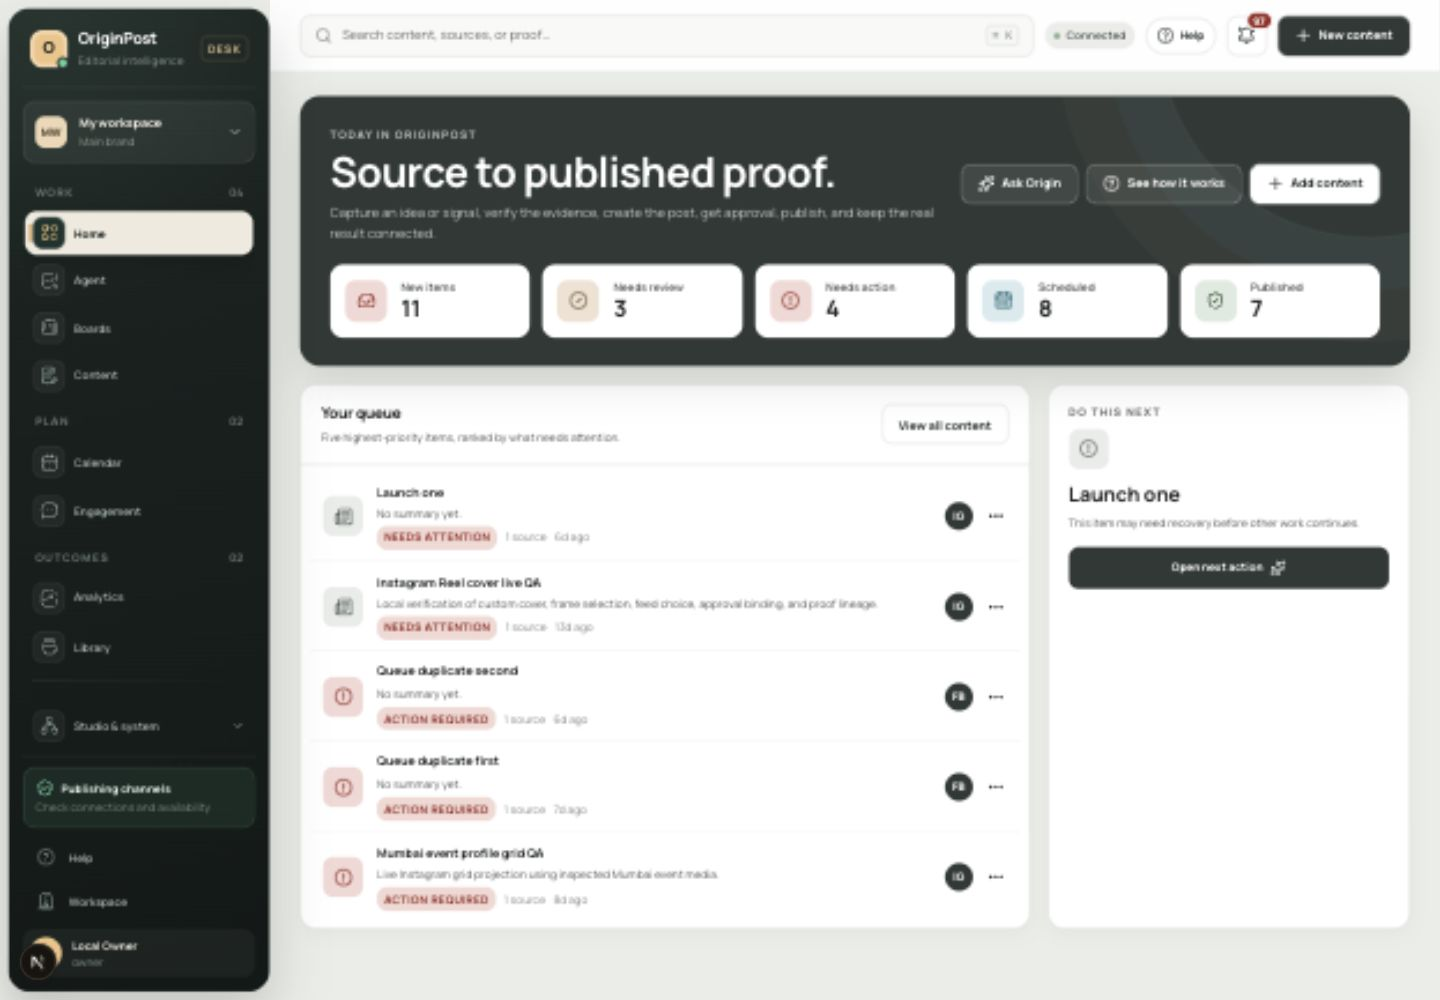
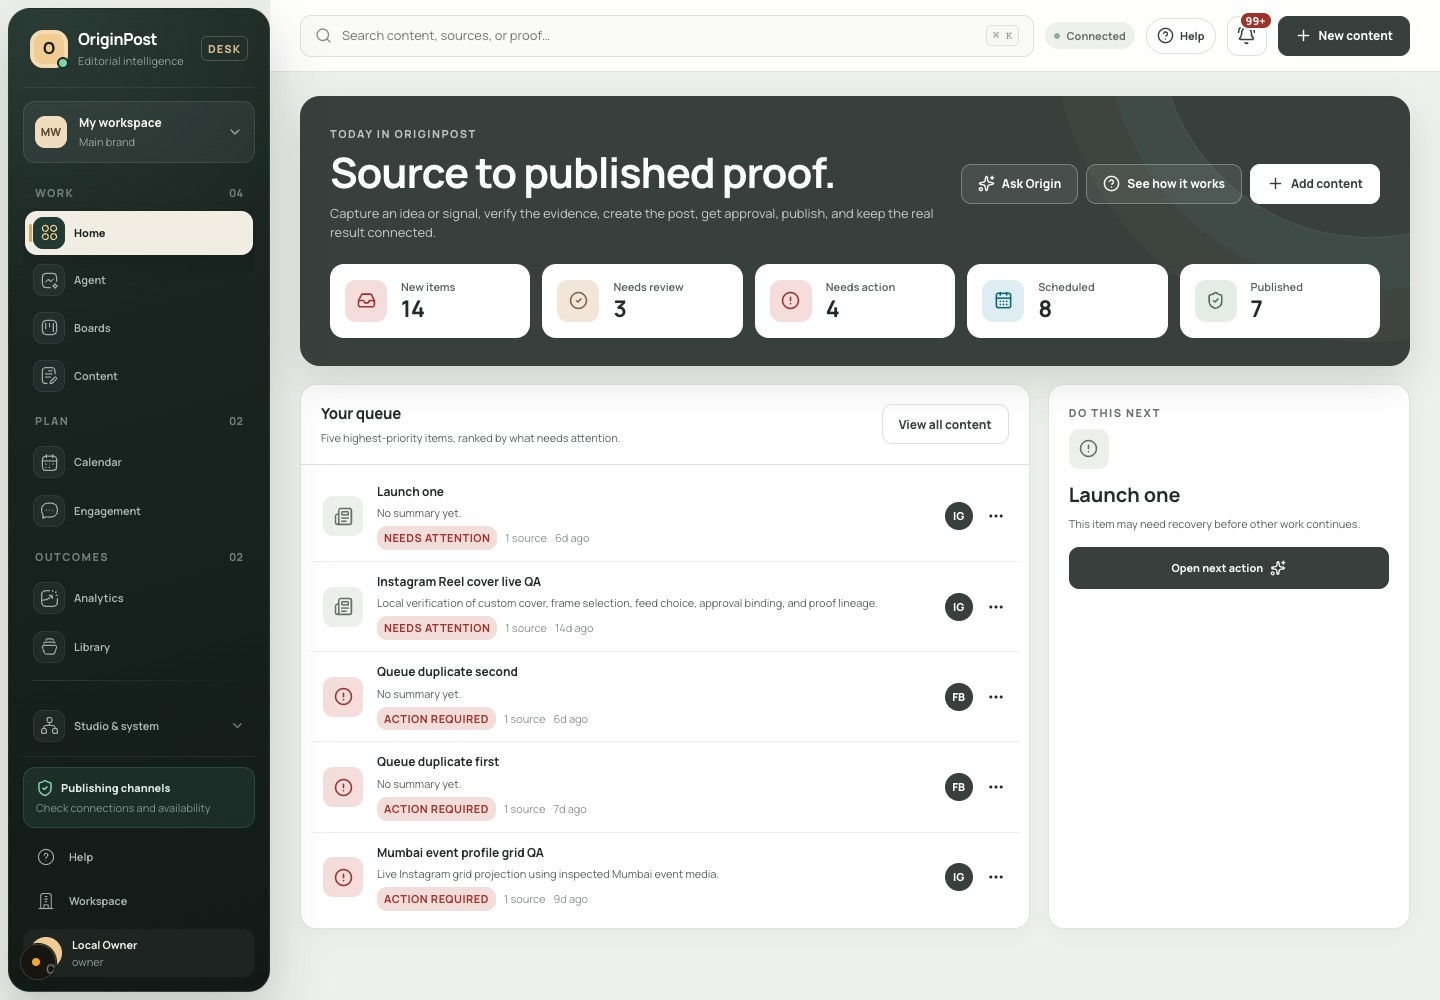
Correct rejected drafts without repeating completed research

diff --git a/apps/web/components/agent-chat/news-post-workspace.tsx b/apps/web/components/agent-chat/news-post-workspace.tsx
@@ -69,7 +69,7 @@ type Run = {
   generationId?: string;
   imageMode?: "server" | "codex-upload";
   projectId?: string;
-  copy?: { headline: string; caption: string };
+  copy?: { headline: string; caption: string; visualDirection: string };
   copyReview?: {
     status: "passed" | "needs-changes";
     reviewedAt: string;
@@ -190,6 +190,8 @@ export function NewsPostWorkspace({
   const [projectId, setProjectId] = useState("");
   const [boards, setBoards] = useState<Board[]>([]);
   const [recoveryOptions, setRecoveryOptions] = useState<{runId:string; projects:{id:string;name:string}[]} | null>(null);
+  const [correction, setCorrection] = useState<{runId:string; copy:NonNullable<Run["copy"]>} | null>(null);
+  const correctionSubmission = useRef<{key:string; fingerprint:string} | null>(null);
   const [contextOpen, setContextOpen] = useState(false);
   const [settingsMode, setSettingsMode] = useState<"new" | "edit">("new");
   const contextRef = useRef<HTMLDialogElement>(null);
@@ -965,7 +967,7 @@ export function NewsPostWorkspace({
                 </p>
               )}
               {selectedRun.status === "uncertain" && selectedRun.imageMode === "codex-upload" && !selectedRun.outputMediaId && editable && (
-                <section className={styles.setup} aria-label="Recover saved composition">
+                <section className={`${styles.setup} ${styles.reviewActions}`} aria-label="Recover saved composition">
                   <p>If your picture finished in Creative Studio, reconnect the matching composition and continue the image checks.</p>
                   <button disabled={busy} onClick={async () => {
                     setBusy(true); setError("");
@@ -985,6 +987,35 @@ export function NewsPostWorkspace({
                       finally { setBusy(false); }
                     }}>Continue image checks · {project.name}</button>
                   )) : <p>No finished composition matches the saved image, copy and template yet. Open Creative Studio to inspect the retained work.</p>)}
+                </section>
+              )}
+              {selectedRun.status === "blocked" && selectedRun.copy && editable && (selectedRun.copyReview?.status === "needs-changes" || selectedRun.imageReview?.status === "needs-changes") && (
+                <section className={`${styles.setup} ${styles.reviewActions}`} aria-label="Correct reviewed draft">
+                  <strong>Correct the draft</strong>
+                  <p>Keep the completed research and correct the text or image instructions. A new version goes through both reviews; the original stays in this chat.</p>
+                  {correction?.runId !== selectedRun.id ? <button onClick={() => setCorrection({runId:selectedRun.id,copy:{...selectedRun.copy!}})}>Edit corrections</button> : (
+                    <form className={styles.correctionForm} onSubmit={async event => {
+                      event.preventDefault(); setBusy(true); setError("");
+                      const payload = {workspaceId,brandId,expectedVersion:selectedRun.version,copy:correction.copy};
+                      const fingerprint = JSON.stringify([selectedRun.id,payload]);
+                      const storageKey = `originpost:copy-correction:${auth.user.id}:${workspaceId}:${brandId}:${selectedRun.id}`;
+                      try { const saved = JSON.parse(sessionStorage.getItem(storageKey) ?? "null"); if (saved?.fingerprint === fingerprint && typeof saved.key === "string") correctionSubmission.current = saved; } catch {}
+                      if (correctionSubmission.current?.fingerprint !== fingerprint) correctionSubmission.current = {key:crypto.randomUUID(),fingerprint};
+                      try { sessionStorage.setItem(storageKey,JSON.stringify(correctionSubmission.current)); } catch {}
+                      try {
+                        const run = await request<Run>(`/v1/agent-posts/${selectedRun.id}/copy-revisions`,{method:"POST",headers:{"content-type":"application/json","idempotency-key":correctionSubmission.current!.key},body:JSON.stringify(payload)});
+                        setRuns(old => [run,...old.filter(r => r.id !== run.id)]); choose(run.id); setCorrection(null); correctionSubmission.current = null;
+                        try { sessionStorage.removeItem(storageKey); } catch {}
+                      } catch(e) { setError(e instanceof Error ? e.message : "Corrections could not be saved."); }
+                      finally { setBusy(false); }
+                    }}>
+                      <label>Headline<textarea required maxLength={150} rows={2} value={correction.copy.headline} onChange={e => setCorrection({...correction,copy:{...correction.copy,headline:e.target.value}})} /></label>
+                      <label>Caption<textarea required maxLength={4000} rows={7} value={correction.copy.caption} onChange={e => setCorrection({...correction,copy:{...correction.copy,caption:e.target.value}})} /></label>
+                      <label>Image instructions<textarea required maxLength={2500} rows={5} value={correction.copy.visualDirection} onChange={e => setCorrection({...correction,copy:{...correction.copy,visualDirection:e.target.value}})} /></label>
+                      <p>{selectedRun.imageMode === "codex-upload" ? "After the copy check, upload a corrected Codex image using the new brief." : "After the copy check, the image provider creates a new image."}</p>
+                      <div><button type="submit" disabled={busy}>Save corrections and recheck</button><button type="button" disabled={busy} onClick={() => setCorrection(null)}>Cancel</button></div>
+                    </form>
+                  )}
                 </section>
               )}
               {selectedRun.status === "awaiting-image" && (
@@ -1303,7 +1334,7 @@ export function NewsPostWorkspace({
             </div>
           )}
         </div>
-        {(!selectedRun || canRevise) && (
+        {(!selectedRun || canRevise) && !(correction && correction.runId === selectedRun?.id) && (
           <form className={styles.composerDock} onSubmit={start}>
             <div className={styles.templateSelect}>
               <label htmlFor="post-template">Project template</label>

diff --git a/apps/api/src/agent-posts/agent-posts.service.ts b/apps/api/src/agent-posts/agent-posts.service.ts
@@ -37,6 +37,7 @@ import type {
   CreateAgentPostDto,
   ImportAgentPostImageDto,
   RecoverAgentPostCompositionDto,
+  CorrectAgentPostCopyDto,
 } from "./agent-posts.dto.js";
 
 const hash = (value: unknown) =>
@@ -622,6 +623,47 @@ export class AgentPostsService implements OnModuleInit, OnApplicationShutdown {
         409,
       );
     return visible(next);
+  }
+  async correctCopy(w: string, parentId: string, dto: CorrectAgentPostCopyDto, key: string | undefined, actor: Actor) {
+    await this.authorize(w, dto.brandId, actor, true);
+    if (!key || key.length > 160) throw new DomainError("Provide a unique request key.", "idempotency_key_required", 428);
+    const parsed = agentPostCopySchema.safeParse(dto.copy);
+    if (!parsed.success) throw new DomainError("Provide a headline, caption and visual direction within the displayed limits.", "copy_invalid", 400);
+    const copy = parsed.data;
+    const id = `agent_post_${hash([w, actor.id, "copy-revision", key]).slice(0, 40)}`;
+    const fingerprint = hash([dto.brandId, parentId, dto.expectedVersion, copy]);
+    const existing = await this.store.get(w, id);
+    if (existing) {
+      if (existing.fingerprint !== fingerprint) throw new DomainError("This request key belongs to another correction.", "idempotency_conflict", 409);
+      return visible(existing);
+    }
+    const parent = await this.store.get(w, parentId);
+    if (!parent || parent.brandId !== dto.brandId) throw new DomainError("Post run not found.", "not_found", 404);
+    if (parent.version !== dto.expectedVersion) throw new DomainError("This run changed. Refresh before correcting it.", "version_conflict", 409);
+    if (parent.status !== "blocked" || parent.inFlightUntil || !parent.copy || !parent.evidenceHash || parent.draftId || !(parent.copyReview?.status === "needs-changes" || parent.imageReview?.status === "needs-changes")) {
+      throw new DomainError("Only a draft stopped by copy or image review can use this correction flow.", "copy_correction_unavailable", 409);
+    }
+    if (hash(copy) === hash(parent.copy) && parent.imageReview?.status !== "needs-changes") throw new DomainError("Correct the review findings before submitting this draft again.", "copy_unchanged", 400);
+    const item = await this.content.get(w, parent.contentItemId);
+    if (item.brandId !== dto.brandId || parent.evidenceHash !== hash([item.claims, item.sources])) throw new DomainError("The sources changed. Start a new researched revision.", "evidence_changed", 409);
+    if (!parent.researchRunId || !hasLiveAgentResearch(item, parent.researchRunId)) throw new DomainError("A completed live research receipt is required.", "research_not_live", 409);
+    for (const ref of [parent.template.logo, ...parent.template.references]) {
+      const current = await this.asset(w, dto.brandId, ref.mediaId, ref.mediaId === parent.template.logo.mediaId);
+      if (current.sha256 !== ref.sha256) throw new DomainError("The template assets changed. Start a new revision.", "template_changed", 409);
+    }
+    // New immutable review candidate, sharing the still-unchanged evidence.
+    // No old approvals, reviews, images or provider operation IDs are inherited.
+    const now = new Date().toISOString();
+    const run: AgentPostRun = {
+      id, workspaceId: w, brandId: dto.brandId, createdBy: actor.id, createdAt: now, updatedAt: now,
+      version: 1, fingerprint, input: parent.input, template: structuredClone(parent.template),
+      conversationId: parent.conversationId ?? parent.id, parentRunId: parent.id,
+      requestMessage: "Editor corrected the draft for a new independent review.",
+      ...(parent.sourceLead ? {sourceLead: structuredClone(parent.sourceLead)} : {}),
+      contentItemId: item.id, researchRunId: parent.researchRunId, evidenceHash: parent.evidenceHash,
+      imageMode: parent.imageMode ?? "server", copy, status: "reviewing-copy",
+    };
+    return visible(await this.store.create(run));
   }
   private async recoveryRun(w: string, b: string, id: string, actor: Actor) {
     await this.authorize(w, b, actor, true);

diff --git a/apps/api/test/agent-posts.e2e.test.ts b/apps/api/test/agent-posts.e2e.test.ts
@@ -841,6 +841,32 @@ describe("news post workflow with external providers substituted", () => {
     expect(packet.claims).toEqual(item.claims);
     expect(packet.sources).toEqual(item.sources);
     expect(item.approvals).toHaveLength(0);
+
+    const route = `/v1/agent-posts/${run.id}/copy-revisions`;
+    const corrected = {...run.copy!,caption:run.copy!.caption.replace("today", "according to the council")};
+    const payload = {workspaceId:"default",brandId:"brand_default",expectedVersion:run.version,copy:corrected};
+    const submit = (body:unknown,key="correct-review-draft") => request(app.getHttpServer()).post(route).set("Idempotency-Key",key).send(body);
+    await request(app.getHttpServer()).post(route).send(payload).expect(428);
+    await submit({...payload,copy:run.copy}).expect(400);
+    await submit({...payload,expectedVersion:run.version-1}).expect(409);
+    await submit({...payload,brandId:"missing-brand"}).expect(404);
+    await submit({...payload,copy:{...corrected,unexpected:"field"}}).expect(400);
+    await expect(service.correctCopy("default",run.id,payload,"viewer-correction",{id:"viewer",name:"Viewer",role:"viewer"})).rejects.toMatchObject({code:"permission_denied"});
+    const contentSpy = vi.spyOn(infrastructure.repository,"get").mockResolvedValueOnce({...item,sources:[]});
+    try { await submit(payload,"changed-evidence-correction").expect(409); } finally { contentSpy.mockRestore(); }
+    const writesBefore = text.mock.calls.length;
+    const researchBefore = vi.mocked(infrastructure.researchQueue.add).mock.calls.length;
+    const saved = await submit(payload).expect(201);
+    expect(saved.body).toMatchObject({status:"reviewing-copy",parentRunId:run.id,contentItemId:run.contentItemId,researchRunId:run.researchRunId,evidenceHash:run.evidenceHash,copy:corrected});
+    for (const field of ["copyReview","imageReview","outputMediaId","externalImage","generationId","draftId","projectId"]) expect(saved.body[field]).toBeUndefined();
+    expect((await submit(payload).expect(201)).body.id).toBe(saved.body.id);
+    await submit({...payload,copy:{...corrected,headline:"Different headline"}}).expect(409);
+    expect(await infrastructure.agentPostRepository.get("default",run.id)).toEqual(run);
+    const checked = await advance(saved.body.id);
+    expect(checked).toMatchObject({status:"generating",copyReview:{status:"passed",copyHash:createHash("sha256").update(JSON.stringify(corrected)).digest("hex")}});
+    expect(text.mock.calls.length).toBe(writesBefore);
+    expect(vi.mocked(infrastructure.researchQueue.add).mock.calls.length).toBe(researchBefore);
+    expect(generate.mock.calls.length).toBe(before);
   });
   it("rejects repeated review categories instead of accepting four apparent passes", async () => {
     const before = generate.mock.calls.length;

diff --git a/apps/api/src/agent-posts/agent-posts.controller.ts b/apps/api/src/agent-posts/agent-posts.controller.ts
@@ -20,6 +20,7 @@ import {
   CreateAgentPostDto,
   ImportAgentPostImageDto,
   RecoverAgentPostCompositionDto,
+  CorrectAgentPostCopyDto,
 } from "./agent-posts.dto.js";
 @Controller({ path: "agent-posts", version: "1" })
 export class AgentPostsController {
@@ -102,6 +103,9 @@ export class AgentPostsController {
   }
   @Get(":id/composition-recovery") recoveryOptions(@Req() r: FastifyRequest, @Query() q: AgentPostQueryDto, @Param("id") id: string) {
     return this.posts.compositionRecoveryOptions(workspaceFrom(r, q.workspaceId), q.brandId, id, actorFrom(r));
+  }
+  @Post(":id/copy-revisions") correctCopy(@Req() r: FastifyRequest, @Body() d: CorrectAgentPostCopyDto, @Param("id") id: string, @Headers("idempotency-key") key: string | undefined) {
+    return this.posts.correctCopy(workspaceFrom(r, d.workspaceId), id, d, key, actorFrom(r));
   }
   @Post(":id/composition-recovery") recoverComposition(@Req() r: FastifyRequest, @Body() d: RecoverAgentPostCompositionDto, @Param("id") id: string) {
     return this.posts.recoverComposition(workspaceFrom(r, d.workspaceId), id, d, actorFrom(r));

diff --git a/apps/web/components/agent-chat/news-post-workspace.module.css b/apps/web/components/agent-chat/news-post-workspace.module.css
@@ -1078,6 +1078,11 @@
 .setup strong {
   font-size: 13px;
 }
+.setup.reviewActions { display: block; }
+.correctionForm { display: grid; gap: 14px; margin-top: 16px; }
+.correctionForm label { display: grid; gap: 6px; font-size: 13px; font-weight: 600; }
+.correctionForm textarea { width: 100%; box-sizing: border-box; resize: vertical; border: 1px solid #ccd1c9; border-radius: 8px; padding: 10px 12px; background: #fff; color: #222b27; font: inherit; font-weight: 400; line-height: 1.6; }
+.correctionForm > div { display: flex; gap: 18px; }
 .request {
   font-size: 14px;
 }

diff --git a/apps/api/src/agent-posts/agent-posts.dto.ts b/apps/api/src/agent-posts/agent-posts.dto.ts
@@ -40,6 +40,11 @@ export class RecoverAgentPostCompositionDto extends AgentPostQueryDto {
   @IsString() @Length(1, 200) projectId!: string;
 }
 
+export class CorrectAgentPostCopyDto extends AgentPostQueryDto {
+  @IsInt() @Min(1) expectedVersion!: number;
+  @IsObject() copy!: Record<string, unknown>;
+}
+
 export class AgentPostPublishPreviewDto extends AgentPostQueryDto {
   @IsIn(["originpost.publisher"]) recipientId!: "originpost.publisher";
   @IsString() @Length(1, 200) accountId!: string;

diff --git a/docs/research/2026-09-15-codex-image-workflow.md b/docs/research/2026-09-15-codex-image-workflow.md
@@ -105,3 +105,13 @@ The retained image rendered successfully through Creative Studio at 1080×1920. 
 The resumed product vision check correctly blocked this candidate before draft creation: the propeller-plane illustration did not match the aircraft described by the NASA source. Headline, footer, disclosure and logo passed. The independent report alone therefore does not establish acceptance. A new revision removes all aircraft from the illustrative direction; the blocked candidate and both reviews remain retained.
 
 `GET /v1/agent-posts/:id/composition-recovery` offers matching ready compositions among the latest 100 projects. `POST` accepts a project ID and expected run version. Recovery is restricted to uncertain Codex-upload composition handoffs with unchanged live evidence, a passed copy review, the bound brief and the retained AI image. It compares the complete creative-spec hash, records the prior error and recovering editor, and continues through the normal image-review/draft stages. It cannot resume an uncertain image review, generation-provider call or draft write. A changed revision blocks continuation. The chat exposes this as **Find saved composition**.
+
+## Corrected draft acceptance
+
+The next candidate passed factual review but stopped on Gujarati agreement in its image instructions. The editor correction flow now addresses this without repeating completed research: `POST /v1/agent-posts/:id/copy-revisions` takes corrected headline/caption/visual direction, the parent version and an idempotency key. It creates a new candidate in the same chat, retaining the original rejected candidate. Only an unchanged, live-researched source set can be reused. Old reviews, images, generation IDs and approvals are never copied. Stale, unauthorized, unchanged rejected-copy and conflicting replay requests are rejected. The new copy is independently checked before image creation continues.
+
+This flow was exercised with the real NASA candidate. All four corrected-copy checks passed. Codex edited the illustration to remove the unsupported aircraft; normal media inspection accepted the PNG. OriginPost then applied the template, passed all four pixel-review categories and saved draft `draft_33d637fa-1a9e-436f-8a0c-a2880a970e00` automatically. No manual composition recovery was needed for this corrected run. The independent copy review found no material defect. Publication readiness returned only mock Instagram accounts and no approved targets; this proves local draft acceptance, not live social publishing.
+
[1 lines of base64/hex data omitted]
+
+The correction form was opened and checked in installed desktop Chrome at 1440×1000 using an isolated profile. Its fields and submit control were reachable; editing hides the competing chat composer, and cancel restores it. The UI check did not submit a duplicate revision or publish anything.

diff --git a/docs/master-agent-chat.md b/docs/master-agent-chat.md
@@ -562,3 +562,9 @@ A local WING NEWS ગુજરાત template was saved with an inspected, exact
 Interactive Codex generation and normal upload have now been exercised with a real source-backed draft. The renderer fits the illustration between the headline/footer panels, and migration 071 stores logo/disclosure/top-headline snapshots in PostgreSQL. A ready composition can be reconnected to an uncertain Codex-upload handoff only when its complete spec, retained image, brief, evidence and passed copy review match. Recovery records the editor and original error, preserves the candidate, and continues through image review. It cannot retry an uncertain provider call or draft write.
 
 Focused API tests pass (36), including interrupted composition, stale-version and changed-copy rejection, no image-generation retry, image review and an unapproved final draft. Two actual PostgreSQL tests pass. The real recovered NASA candidate was stopped by product vision because its illustrated propeller plane was unsupported by the source; no final draft or publication was claimed. A corrected revision is in progress. The desktop admin screenshot remains the only admin screenshot in the README.
+
+### 2026-09-15 — corrected copy to final saved draft
+
+Added an editor correction form that creates a new reviewed candidate while reusing unchanged live research. The rejected copy remains in chat; all copy and image checks run again, and no prior approval or generated asset is inherited. API tests cover permission, scope, source changes, stale versions and idempotent replay. Installed Chrome confirmed the desktop form is usable and cancellation restores the chat composer.
+
+The real corrected NASA run reached `ready`: corrected copy passed review, Codex removed the unsupported aircraft, the normal upload/composition flow succeeded, all four product image checks passed, and the draft was saved automatically. The local content record has one draft, zero approvals and zero publishing targets. The connected-account list contains only mocks. The full publishing goal remains open.

diff --git a/README.md b/README.md
@@ -63,6 +63,8 @@ In Agent, choose **Generate in Codex & upload**. After research and writing, dow
 
 If the chat stops after the picture is saved, choose **Find saved composition**. A matching finished picture can continue through the image checks. The saved headline, logo and image must match before it can continue.
 
+If a review finds a mistake, choose **Edit corrections** to fix the headline, caption or image instructions. OriginPost keeps the original version, checks your corrections again, and reuses the completed research only while its sources remain unchanged.
+
 The uploaded image is recorded as editor-attested AI imagery, not a verified provider receipt. Tagging Codex alone does not yet publish a post. The final post still needs a connected account and review.
 
 [Verified Codex capabilities and integration plan](docs/research/2026-09-15-codex-image-workflow.md)
